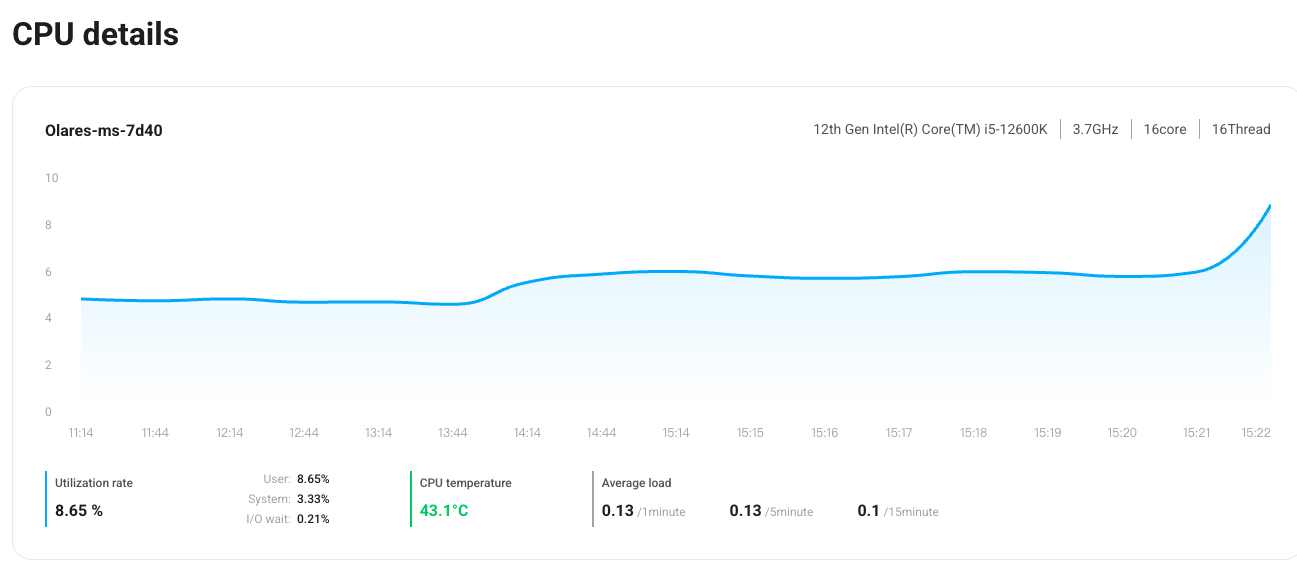
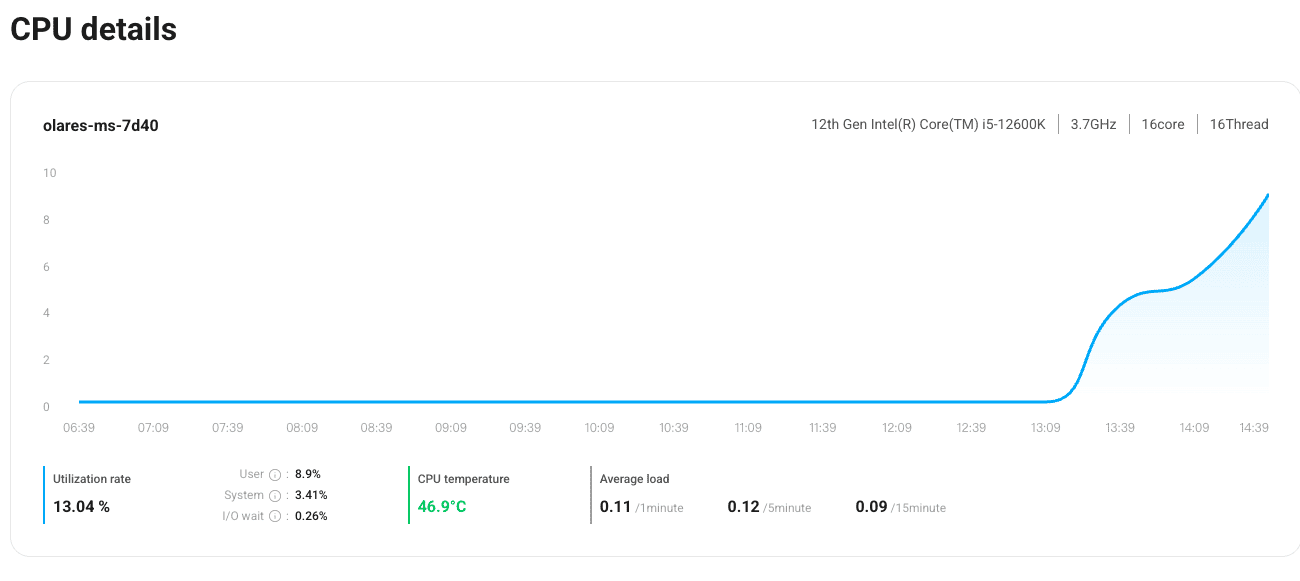
update latest UI screenshots for dashboards

diff --git a/docs/manual/olares/resources-usage.md b/docs/manual/olares/resources-usage.md
@@ -4,7 +4,7 @@ description: Monitor your Olares system and application performance with compreh
 ---
 
 # Monitor system and application status
-The Dashboard app in Olares provides a centralized and intuitive view of your system's status, offering deep insights without requiring extensive technical expertise. From the main dashboard, you can now monitor key resource usage patterns and access detailed real-time metrics across your cluster.
+The Dashboard app in Olares provides a centralized and intuitive view of your system's status, offering deep insights without requiring extensive technical expertise. From the dashboard, you can monitor key resource usage patterns and access detailed real-time metrics across your cluster.
 
 ## Access monitoring dashboards
 
@@ -22,7 +22,7 @@ The Overview page provides a comprehensive, at-a-glance view of your Olares syst
 
 ### View physical resources
 
-Monitor the fundamental resource metrics directly from the **Overview** dashboard:
+Monitor the fundamental resource metrics directly from the **Cluster's physical resource** dashboard:
 
 - CPU utilization
 - Memory consumption
@@ -35,11 +35,15 @@ Monitor the fundamental resource metrics directly from the **Overview** dashboar
 
 ### Access detailed resource panels
 
-For a deeper analysis of any resource, simply click on its card in the **Overview** dashboard. This navigates you to a dedicated detail panel with comprehensive monitoring data and metrics.
+For a deeper analysis of any resource, simply click on its card on the **Cluster's physical resources** dashboard. This navigates you to a dedicated detail panel with comprehensive monitoring data and metrics.
 
 #### CPU panel
 
-The CPU details panel provides an in-depth view of your Olares cluster's CPU performance and health. To access it, click on the **CPU core** card from the Overview dashboard.
+The CPU panel provides an in-depth view of your Olares cluster's CPU performance and health.
+
+To access it, click on the **CPU** card on the **Cluster's physical resources** dashboard.
+
+![CPU panel](/images/manual/olares/dashboard-cpu.png#bordered)
 
 This panel displays:
 - A real-time CPU utilization graph.
@@ -50,13 +54,14 @@ This panel displays:
 
 #### Memory panel
 
-The Memory details panel offers a clear, in-depth view of your Olares cluster's memory usage and allocation. To access it, click on the **Memory** card from the **Overview** dashboard.
+The Memory panel offers a clear, in-depth view of your Olares cluster's memory usage and allocation. To access it, click on the **Memory** card on the **Cluster's physical resources** dashboard.
 
 This panel allows you to switch between **Physical memory** and **Swap** views using the dropdown menu.
+![Memory panel](/images/manual/olares/dashboard-memory.png#bordered)
 
 - When **Physical memory** is selected, it displays:
   - A real-time memory utilization graph.
-  - A memory usage breakdown showing Reserved, Used, Buffer, Cache, and Available memory, along with total memory and utilization rate.
+  - A memory usage breakdown showing reserved, used, buffer, cache, and available memory, along with total memory and utilization rate.
 
 - When **Swap** is selected, it displays:
 
@@ -66,65 +71,69 @@ This panel allows you to switch between **Physical memory** and **Swap** views u
 
 #### Disk panel 
 
-The Disk panel offers a comprehensive view of your storage devices. Use this panel to monitor disk health, track storage consumption, and analyze space allocation in your Olares cluster. To access it, click on the Disk card from the **Overview** dashboard.
+The Disk panel offers a comprehensive view of your storage devices. Use this panel to monitor disk health, track storage consumption, and analyze space allocation in your Olares cluster.
+
+To access it, click on the **Disk** card on the **Cluster's physical resources** dashboard.
+![Disk panel](/images/manual/olares/dashboard-disk.png#bordered)
 
 This panel displays:
 
 - Overall storage status: Disk name, storage status, and a usage bar showing used, and available space.
 
-- Detailed information: Key device specifications like Total capacity, model, serial number, interface protocol, temperature, power-on time, and write volume.
+- Detailed information: Key device specifications like total capacity, model, serial number, interface protocol, temperature, power-on time, and write volume.
 
-For a detailed usage breakdown for a specific storage device, click **Occupancy analysis** in the top right corner. 
+For a detailed usage breakdown for a specific storage device, click **Occupancy analysis** in the top right corner.
 
 The storage usage popup displays:
+![Disk analysis](/images/manual/olares/dashboard-disk-analysis.png#bordered)
 
 - A list of file systems (partitions) on the disk.
 - For each file system, you can view storage metrics like total capacity, used space, available space, usage rate, and mount point.
 
+#### Pods panel
+The Pods panel offers a dynamic view of your application's deployment status.
 
-Here's the summarized documentation for the Pods details panel:
+To access it, click the **Pods** card on the **Cluster's physical resources** dashboard.
 
-#### Pods details panel
-The Pods panel offers a dynamic view of your application's deployment status  To access it, click the Pods card on the **Overview** dashboard.
+![Pods panel](/images/manual/olares/dashboard-pods.png#bordered)
 
-This panel displays:
-
-Pod Count Graphs: Real-time graphs showing the number of running pods over time for different nodes within the cluster. (e.g., "Olares" and "Olares2").
+This panel displays real-time graphs showing the number of running pods over time for different nodes in the cluster. (e.g., "Olares" and "Olares2").
 
 #### GPU panel
 
 The **GPU** panel provides in-depth information about your GPUs within the cluster. Use this panel to effectively monitor GPU health, resource allocation, and performance across your cluster. 
 
-To access the GPU panel, click the GPU card on the **Overview** dashboard.
+To access it, click the GPU card on the **Cluster's physical resources** dashboard.
 
-![GPU details list](/images/0329bd.png#bordered)
+![GPU panel](/images/manual/olares/dashboard-gpu-overview.png#bordered)
 
 This panel includes two tabs: 
 
-- **Graphics management tab**: view a list of all detected GPUs, including their GPU ID, model, GPU mode (e.g., Memory Slicing), host node, health status, computing power usage, VRAM usage rate, and power draw.
+- **Graphics management tab**: View a list of all detected GPUs, including their GPU ID, model, GPU mode (e.g., Memory Slicing), host node, health status, computing power usage, VRAM usage rate, and power draw.
   
-  For a more granular view of a specific GPU, click **View details** next to its entry
+  For a more granular view of a specific GPU, click **View details** next to its entry.
 
-- **Task management tab**: Monitor tasks currently utilizing your GPUs. It provides insights into task name, status, GPU Mode, host node, computing power usage, and VRAM used, along with available operations.
+- **Task management tab**: Monitor tasks currently using your GPUs. It provides insights into the task name, status, GPU Mode, host node, computing power usage, and VRAM used, along with available operations.
 
 #### Network panel
 
 The Network panel provides comprehensive insights into your network interfaces. Use this panel to monitor network connectivity, traffic flow, and configuration for optimal system performance.
 
+To access it, click the **Network** card on the **Overview** dashboard.
+
+![Network panel](/images/manual/olares/dashboard-network.png#bordered)
+
 The Network panel displays:
 
 - Network port information: Details for each network port (e.g., wlo1), including its usage status, real-time upload and download speeds, and connection status.
 
-- IP configuration: Information on IP acquisition method (e.g., DHCP), owned node, and network configuration.
+- IP configuration: Information on IP acquisition method (e.g., DHCP), host node, and network configuration.
 
 - IPv4 and IPv6 details: Comprehensive details for both IPv4 and IPv6, including address, subnet mask, gateway address, DNS, and network status.
 
-![Network details](/images/0328fd.png#bordered)
+#### Access detailed resource metrics 
 
-
-### Access physical resources
-
-For deeper analysis, click **More details** to view comprehensive monitoring data for the past 7 days.
+Click **More details** on the top right of the **Overview** dashboard to view dynamic monitoring data over a specific period of time.
 
 Use the dropdown menu in the top right to change the time range, or click <i class="material-symbols-outlined">refresh</i> to update monitoring data.
 
@@ -143,7 +152,8 @@ The following metrics help you maintain optimal system performance:
 | Pod status       | Count of pods by state             | Reflects application health                   |
 
 ![Physical resource monitoring](/images/manual/olares/physical-resource-monitoring.png#bordered)
-### Check resource quota
+
+### Check user resource quota
 You can view your resource quota allocated by the Olares admin.
 
 ![Resource quota](/images/manual/olares/resource-quota.png#bordered)
